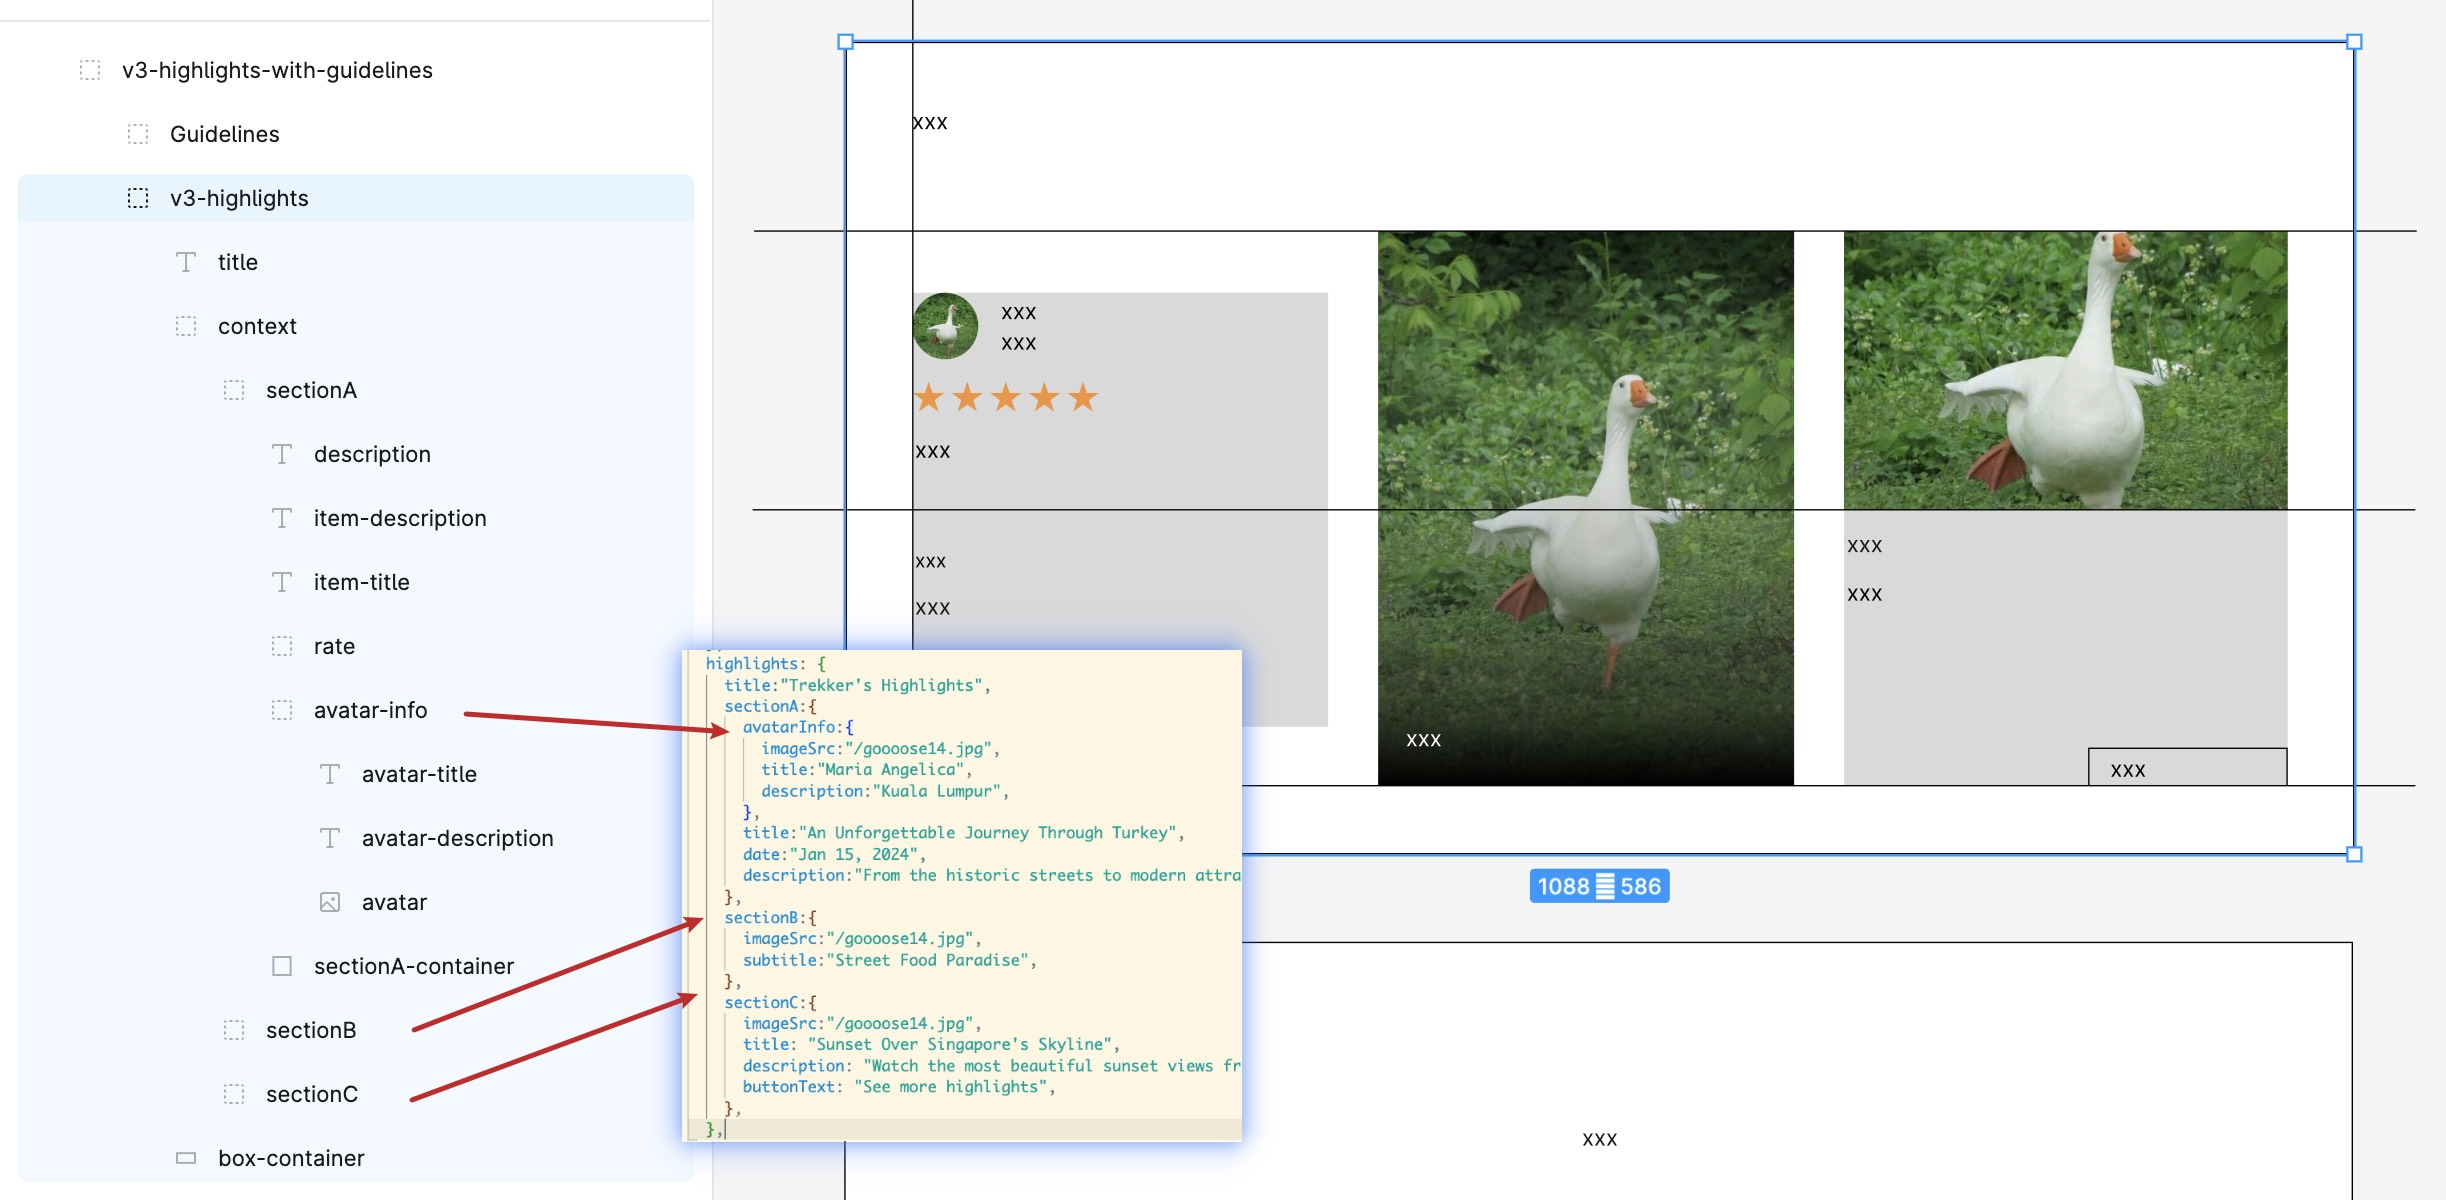
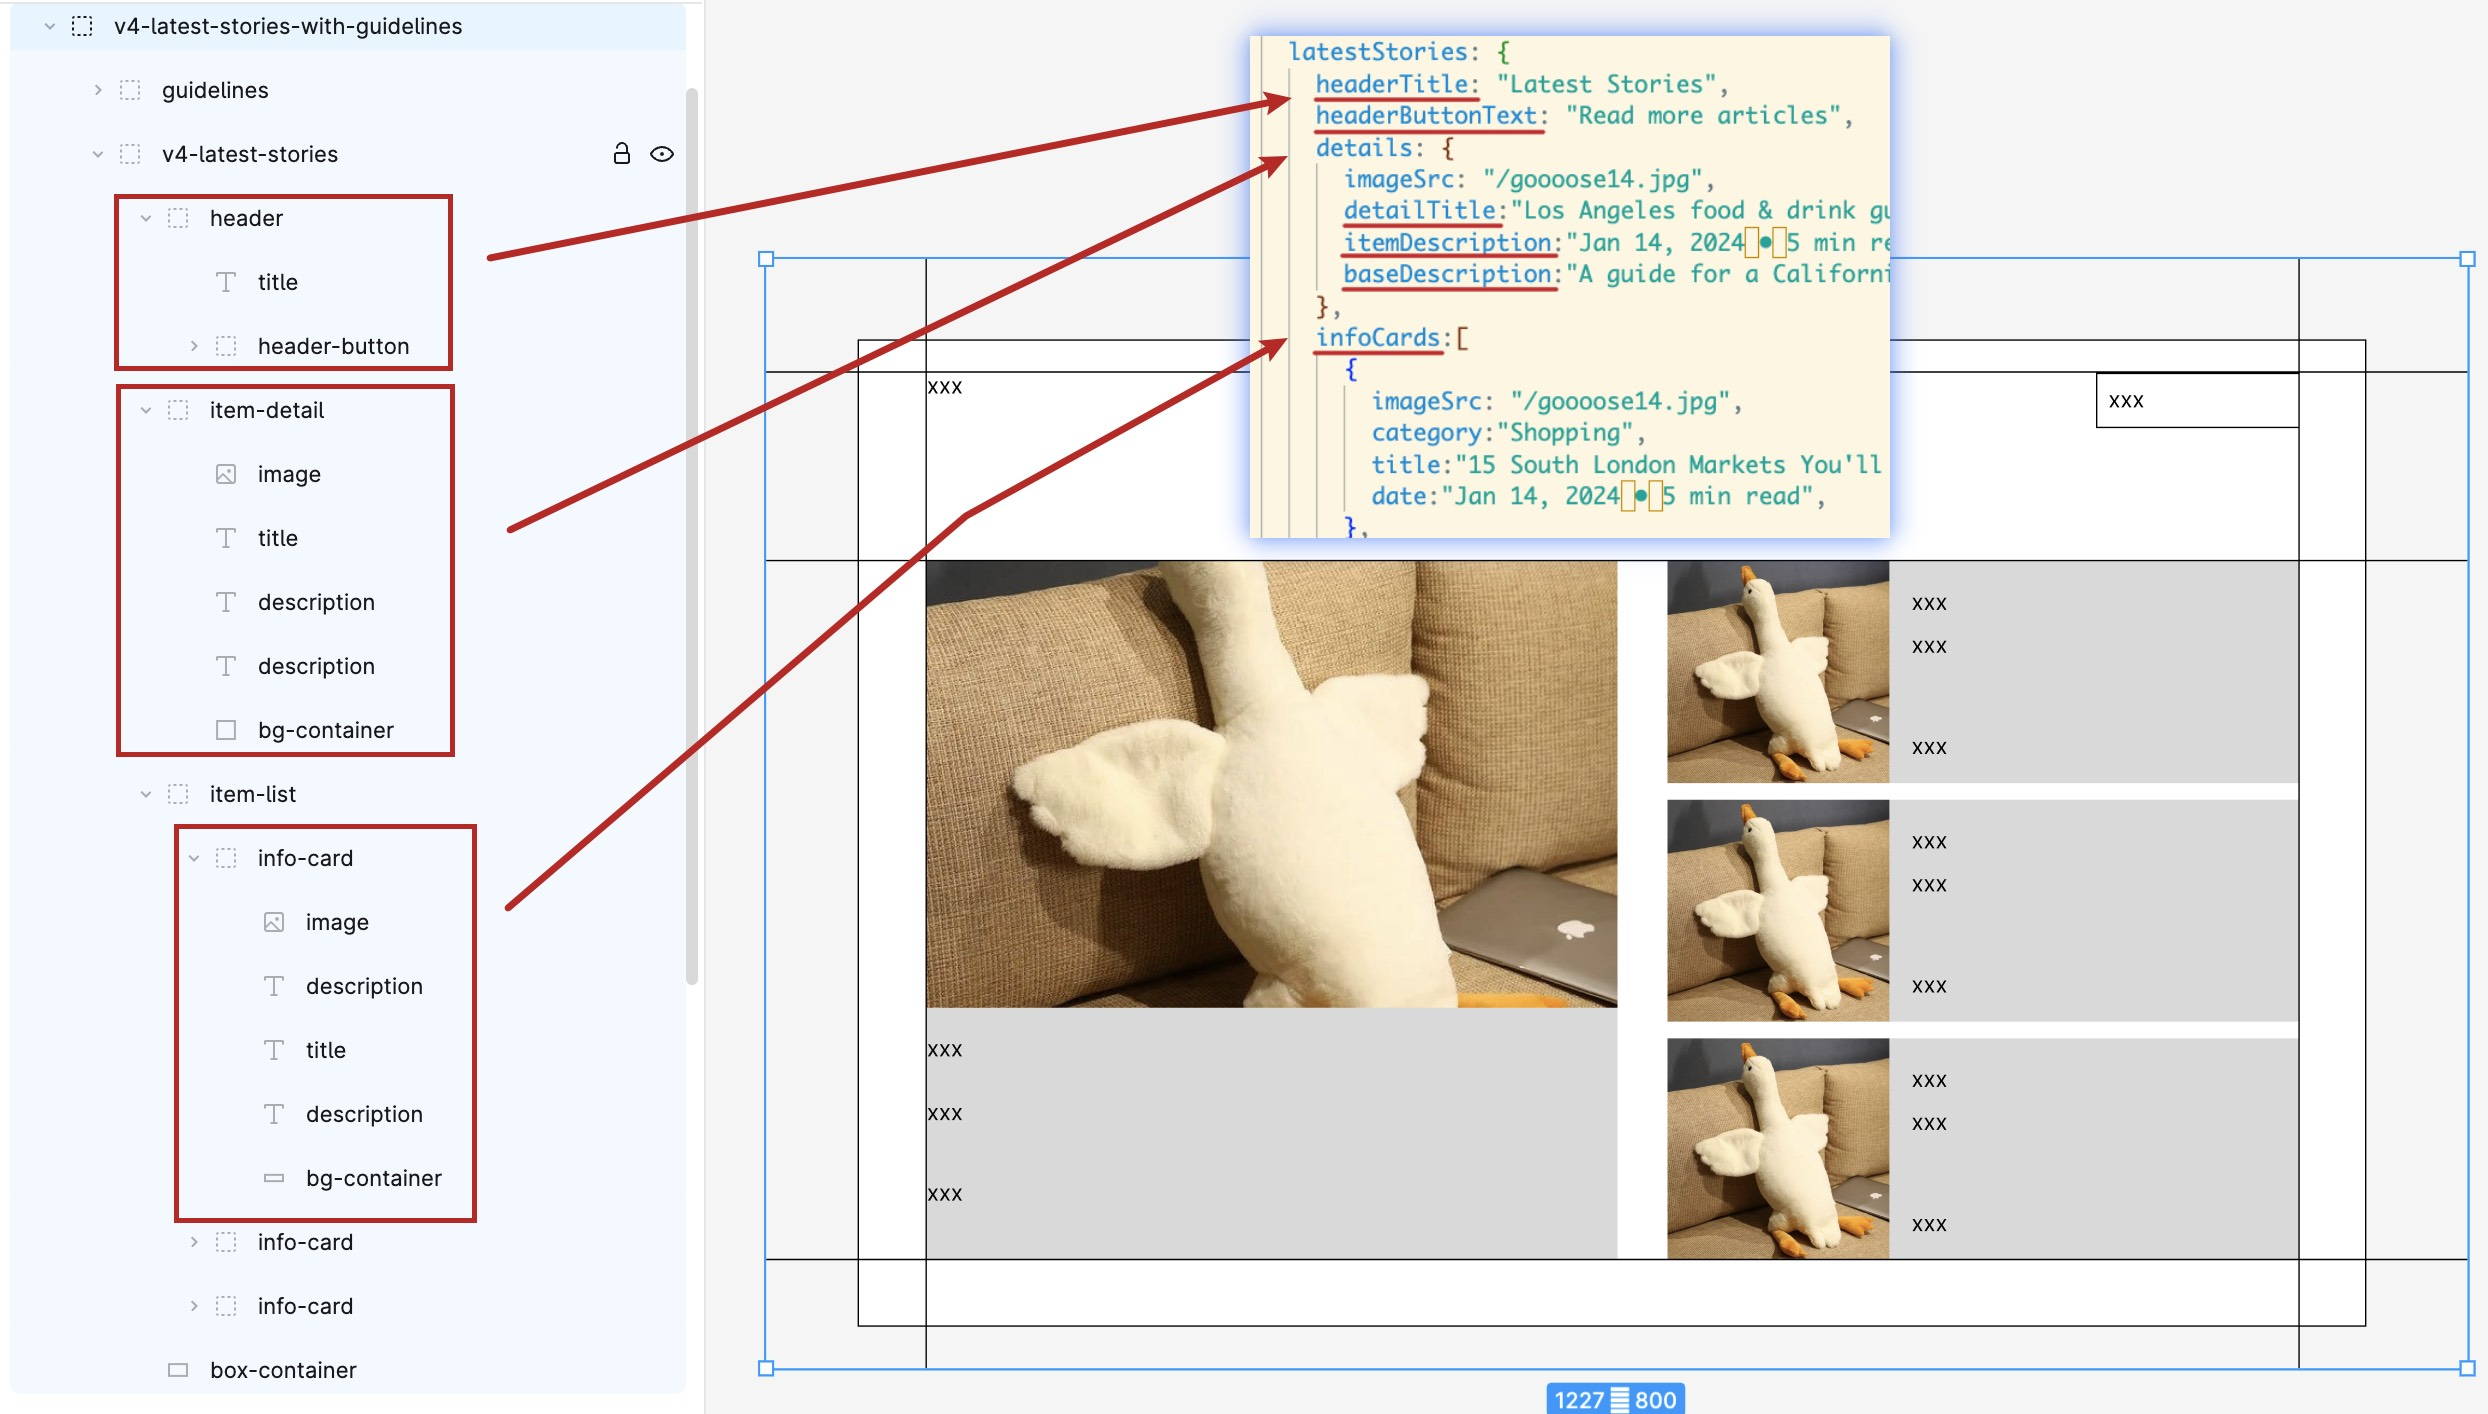
generate v4 latest stories and update readme

diff --git a/app/components/v3/highlights-v3.tsx b/app/components/v3/highlights-v3.tsx
@@ -1,7 +1,7 @@
 import { Container, Box, Stack, Rating } from "@mui/material";
 import React from "react";
-import { Title, SubTitle, ItemTitle } from "@/app/common/ui/title";
-import { Description, ItemDescription } from "@/app/common/ui/description";
+import { HeaderTitle, SubTitle, ItemTitle } from "@/app/common/ui/titles";
+import { BaseDescription, ItemDescription } from "@/app/common/ui/descriptions";
 import AvatarInfo from "@/app/common/ui/avatar-info";
 import { OperationButton } from "@/app/common/ui/buttons";
 
@@ -10,14 +10,14 @@ export default function HighlightsV3() {
     <Container maxWidth="lg">
       <Box sx={{ p: 4 }}>
         {/* 标题区域 */}
-        <Title>Trekker&apos;s Highlights</Title>
+        <HeaderTitle>Trekker&apos;s Highlights</HeaderTitle>
 
         {/* 主要内容区域 */}
         <Stack direction="row" spacing={3} sx={{ mt: 4 }}>
           {/* Section A - 4份占比 */}
           <Box sx={{ flex: 4, alignContent: "center" }}>
             <AvatarInfo
-              avatar="/goooose9.jpg"
+              avatar="/goooose18.jpg"
               avatarTitle="Maria Angelica"
               avatarDescription="Kuala Lumpur"
             />
@@ -25,14 +25,14 @@ export default function HighlightsV3() {
             <ItemTitle>An Unforgettable Journey Through Turkey</ItemTitle>
             <ItemDescription description="Jan 15, 2024" sx={{ mb: 2 }} />
 
-            <Description description="From the historic streets to modern attractions, this guide covers everything you need to know about exploring Turkey. The exquisite culinary scene and local hospitality made this trip truly special." />
+            <BaseDescription description="From the historic streets to modern attractions, this guide covers everything you need to know about exploring Turkey. The exquisite culinary scene and local hospitality made this trip truly special." />
           </Box>
 
           {/* Section B - 3份占比 */}
           <Box sx={{ flex: 3, position: "relative" }}>
             <Box
               component="img"
-              src="/goooose9.jpg"
+              src="/goooose18.jpg"
               sx={{
                 width: "100%",
                 height: "400px",
@@ -60,7 +60,7 @@ export default function HighlightsV3() {
           <Stack sx={{ flex: 3, position: "relative" }} spacing={2}>
             <Box
               component="img"
-              src="/goooose9.jpg"
+              src="/goooose18.jpg"
               sx={{
                 width: "100%",
                 height: "200px",

diff --git a/app/components/v4/latest-stories-v4.tsx b/app/components/v4/latest-stories-v4.tsx
@@ -1,0 +1,66 @@
+import { Container, Stack, Box } from "@mui/material";
+import React from "react";
+import { v4 } from "@/app/constants/v4";
+import { HeaderTitle } from "@/app/common/ui/titles";
+import { HeaderButton } from "@/app/common/ui/buttons";
+import { InfoCard } from "@/app/common/ui/cards";
+import { DetailTitle } from "@/app/common/ui/titles";
+import { ItemDescription, BaseDescription } from "@/app/common/ui/descriptions";
+
+export default function LatestStoriesV4() {
+  return (
+    <Container maxWidth="lg">
+      <Box p={6}>
+        <Stack spacing={4}>
+          {/* Header */}
+          <Stack
+            direction="row"
+            justifyContent="space-between"
+            alignItems="center"
+          >
+            <HeaderTitle>{v4.latestStories.headerTitle}</HeaderTitle>
+            <HeaderButton buttonText={v4.latestStories.headerButtonText} />
+          </Stack>
+
+          {/* Content */}
+          <Stack direction="row" spacing={4}>
+            {/* Left Section - Detail */}
+            <Stack spacing={2} flex={1}>
+              <Box
+                component="img"
+                src={v4.latestStories.details.imageSrc}
+                sx={{
+                  width: "100%",
+                  height: 320,
+                  objectFit: "cover",
+                  borderRadius: 2,
+                }}
+              />
+              <DetailTitle>{v4.latestStories.details.detailTitle}</DetailTitle>
+              <ItemDescription
+                description={v4.latestStories.details.itemDescription}
+              />
+<BaseDescription
+                description={v4.latestStories.details.baseDescription}
+              />
+
+            </Stack>
+
+            {/* Right Section - Info Cards */}
+            <Stack spacing={3} flex={1}>
+              {v4.latestStories.infoCards.map((card, index) => (
+                <InfoCard
+                  key={index}
+                  imgSrc={card.imageSrc}
+                  category={card.category}
+                  title={card.title}
+                  date={card.date}
+                />
+              ))}
+            </Stack>
+          </Stack>
+        </Stack>
+      </Box>
+    </Container>
+  );
+}

diff --git a/app/components/v3/latest-stories-v3.tsx b/app/components/v3/latest-stories-v3.tsx
@@ -1,9 +1,9 @@
 import { Container, Box } from "@mui/material";
 import React from "react";
-import { Title, DetailTitle } from "@/app/common/ui/title";
+import { HeaderTitle, DetailTitle } from "@/app/common/ui/titles";
 import { HeaderButton } from "@/app/common/ui/buttons";
-import { InfoCard } from "@/app/common/ui/card";
-import { Description, ItemDescription } from "@/app/common/ui/description";
+import { InfoCard } from "@/app/common/ui/cards";
+import { BaseDescription, ItemDescription } from "@/app/common/ui/descriptions";
 
 export default function LatestStoriesV3() {
   return (
@@ -11,7 +11,7 @@ export default function LatestStoriesV3() {
       <Box sx={{ p: 7, bgcolor: "white" }}>
         {/* Header */}
         <Box sx={{ display: "flex", justifyContent: "space-between", mb: 8 }}>
-          <Title>Latest Stories</Title>
+          <HeaderTitle>Latest Stories</HeaderTitle>
           <HeaderButton buttonText="READ MORE ARTICLES" />
         </Box>
 
@@ -37,7 +37,7 @@ export default function LatestStoriesV3() {
               sx={{ mb: 1 }}
               description="Jan 14, 2024 • 5 min read"
             />
-            <Description description="A guide for a California's incredible eats: from street food to upscale dining, discover the best LA has to offer." />
+            <BaseDescription description="A guide for a California's incredible eats: from street food to upscale dining, discover the best LA has to offer." />
           </Box>
 
           {/* Story List */}

diff --git a/app/constants/v4.ts b/app/constants/v4.ts
@@ -26,7 +26,37 @@ export const v4 = {
       imageSrc:"/goooose14.jpg",
       title:"Sunset Over Singapore's Skyline",
       description:"Watch the most beautiful sunset views from Marina Bay Sands",
-      buttonText:"See more highlights",
-    }
+      buttonText: "See more highlights",
+    },
+  },
+  latestStories: {
+    headerTitle: "Latest Stories",
+    headerButtonText: "READ MORE ARTICLES",
+    details: {
+      imageSrc: "/goooose14.jpg",
+      detailTitle:"Los Angeles food & drink guide: 10 things to try in Los Angeles, California",
+      itemDescription:"Jan 14, 2024 • 5 min read",
+      baseDescription:"A guide for a California's incredible eats: from street food to upscale dining, discover the best LA has to offer.",
+    },
+    infoCards:[
+      {
+        imageSrc: "/goooose14.jpg",
+        category:"Shopping",
+        title:"15 South London Markets You'll Love: Best Markets in South London",
+        date:"Jan 14, 2024 • 5 min read",
+      },
+      {
+        imageSrc: "/goooose14.jpg",
+        category:"Shopping",
+        title:"16 South London Markets You'll Love: Best Markets in North London",
+        date:"Jan 24, 2024 • 15 min read",
+      },
+      {
+        imageSrc: "/goooose14.jpg",
+        category:"Shopping",
+        title:"17 South London Markets You'll Love: Best Markets in West London",
+        date:"Jan 29, 2024 • 22 min read",
+      }
+    ]
   },
 };

diff --git a/app/components/v4/highlights-v4.tsx b/app/components/v4/highlights-v4.tsx
@@ -1,17 +1,17 @@
 import { Container, Stack, Box, Rating } from "@mui/material";
 import React from "react";
 import { v4 } from "@/app/constants/v4";
-import { Title } from "@/app/common/ui/title";
+import { HeaderTitle } from "@/app/common/ui/titles";
 import AvatarInfo from "@/app/common/ui/avatar-info";
-import { ItemTitle, SubTitle } from "@/app/common/ui/title";
-import { ItemDescription, Description } from "@/app/common/ui/description";
+import { ItemTitle, SubTitle } from "@/app/common/ui/titles";
+import { ItemDescription, BaseDescription } from "@/app/common/ui/descriptions";
 import { OperationButton } from "@/app/common/ui/buttons";
 
 export default function HighlightsV4() {
   return (
     <Container maxWidth="lg">
       <Box p={6}>
-        <Title>{v4.highlights.title}</Title>
+        <HeaderTitle>{v4.highlights.title}</HeaderTitle>
 
         <Stack direction="row" spacing={4} mt={4}>
           {/* Section A */}
@@ -24,7 +24,7 @@ export default function HighlightsV4() {
             <Rating value={5} readOnly />
             <ItemTitle>{v4.highlights.sectionA.title}</ItemTitle>
             <ItemDescription description={v4.highlights.sectionA.date} />
-            <Description description={v4.highlights.sectionA.description} />
+            <BaseDescription description={v4.highlights.sectionA.description} />
           </Stack>
 
           {/* Section B */}

diff --git a/app/components/v3/top-destinations-v3.tsx b/app/components/v3/top-destinations-v3.tsx
@@ -1,9 +1,9 @@
 import { Container, Box, Stack } from "@mui/material";
 import React from "react";
-import { Title } from "@/app/common/ui/title";
+import { HeaderTitle } from "@/app/common/ui/titles";
 import { SearchInput } from "@/app/common/ui/text-input";
-import { ChipTag } from "@/app/common/ui/tag";
-import { VerticalCard } from "@/app/common/ui/card";
+import { ChipTag } from "@/app/common/ui/tags";
+import { VerticalCard } from "@/app/common/ui/cards";
 
 export default function TopDestinationsV3() {
   const destinations = [
@@ -45,7 +45,7 @@ export default function TopDestinationsV3() {
   return (
     <Container maxWidth="lg">
       <Box sx={{ p: 7, bgcolor: "white" }}>
-        <Title>Top Destinations</Title>
+        <HeaderTitle>Top Destinations</HeaderTitle>
 
         <Stack spacing={3} sx={{ mt: 4 }}>
           {/* Operations Bar */}

diff --git a/app/components/v4/email-connect-v4.tsx b/app/components/v4/email-connect-v4.tsx
@@ -3,9 +3,9 @@ import { Container, Stack } from "@mui/material";
 import { BaseTextInput } from "@/app/common/ui/text-input";
 import { InputButton } from "@/app/common/ui/buttons";
 import {
-  Description,
+  BaseDescription,
   EmphasizedDescription,
-} from "@/app/common/ui/description";
+} from "@/app/common/ui/descriptions";
 import { v4 } from "@/app/constants/v4";
 
 export default function EmailConnectV4() {
@@ -32,7 +32,7 @@ export default function EmailConnectV4() {
             <BaseTextInput placeholder={v4.emailConnect.placeholder} />
             <InputButton buttonText={v4.emailConnect.buttonText} />
           </Stack>
-          <Description description={v4.emailConnect.description} />
+          <BaseDescription description={v4.emailConnect.description} />
         </Stack>
       </Stack>
     </Container>

diff --git a/app/components/v3/email-connect-v3.tsx b/app/components/v3/email-connect-v3.tsx
@@ -3,8 +3,8 @@ import React from "react";
 import { BaseTextInput } from "@/app/common/ui/text-input";
 import {
   EmphasizedDescription,
-  Description,
-} from "@/app/common/ui/description";
+  BaseDescription,
+} from "@/app/common/ui/descriptions";
 import { InputButton } from "@/app/common/ui/buttons";
 
 export default function EmailConnectV3() {
@@ -30,7 +30,7 @@ export default function EmailConnectV3() {
             <InputButton buttonText="SUBSCRIBE" />
           </Stack>
 
-          <Description description="By subscribing you agree to our Privacy Policy. Check your inbox for the latest updates." />
+          <BaseDescription description="By subscribing you agree to our Privacy Policy. Check your inbox for the latest updates." />
         </Stack>
       </Box>
     </Container>

diff --git a/app/components/v3/banner-section-v3.tsx b/app/components/v3/banner-section-v3.tsx
@@ -1,6 +1,6 @@
 import { Container, Box, Stack } from "@mui/material";
-import { DetailTitle } from "@/app/common/ui/title";
-import { Description } from "@/app/common/ui/description";
+import { DetailTitle } from "@/app/common/ui/titles";
+import { BaseDescription } from "@/app/common/ui/descriptions";
 import { InputButton } from "@/app/common/ui/buttons";
 import React from "react";
 
@@ -87,7 +87,7 @@ export default function BannerSectionV3() {
               <span style={{ color: "#797979" }}>Hidden Wonders</span>
             </DetailTitle>
 
-            <Description
+            <BaseDescription
               sx={{
                 fontSize: "20px",
                 lineHeight: "28px",

diff --git a/app/common/ui/titles.tsx b/app/common/ui/titles.tsx
@@ -1,7 +1,7 @@
 import { Typography, SxProps } from "@mui/material";
 import React from "react";
 
-const Title = ({ children }: { children: React.ReactNode }) => {
+const HeaderTitle = ({ children }: { children: React.ReactNode }) => {
   return (
     <Typography variant="h3" fontWeight="bold">
       {children}
@@ -49,4 +49,4 @@ const DetailTitle = ({
   );
 };
 
-export { Title, SubTitle, ItemTitle, DetailTitle };
+export { HeaderTitle, SubTitle, ItemTitle, DetailTitle };

diff --git a/app/common/ui/cards.tsx b/app/common/ui/cards.tsx
@@ -1,6 +1,6 @@
-import { ItemDescription } from "@/app/common/ui/description";
-import { InfoTag } from "@/app/common/ui/tag";
-import { ItemTitle } from "@/app/common/ui/title";
+import { ItemDescription } from "@/app/common/ui/descriptions";
+import { InfoTag } from "@/app/common/ui/tags";
+import { ItemTitle } from "@/app/common/ui/titles";
 import { Box, Card } from "@mui/material";
 import React from "react";
 

diff --git a/app/pages/figma-with-code-and-text-generation.tsx b/app/pages/figma-with-code-and-text-generation.tsx
@@ -1,10 +1,12 @@
 import React from "react";
 import HighlightsV4 from "@/app/components/v4/highlights-v4";
 import EmailConnectV4 from "@/app/components/v4/email-connect-v4";
+import LatestStoriesV4 from "../components/v4/latest-stories-v4";
 
 export function FigmaWithCodeAndTextGeneration() {
   return (
     <>
+      <LatestStoriesV4 />
       <HighlightsV4 />
       <EmailConnectV4 />
     </>
